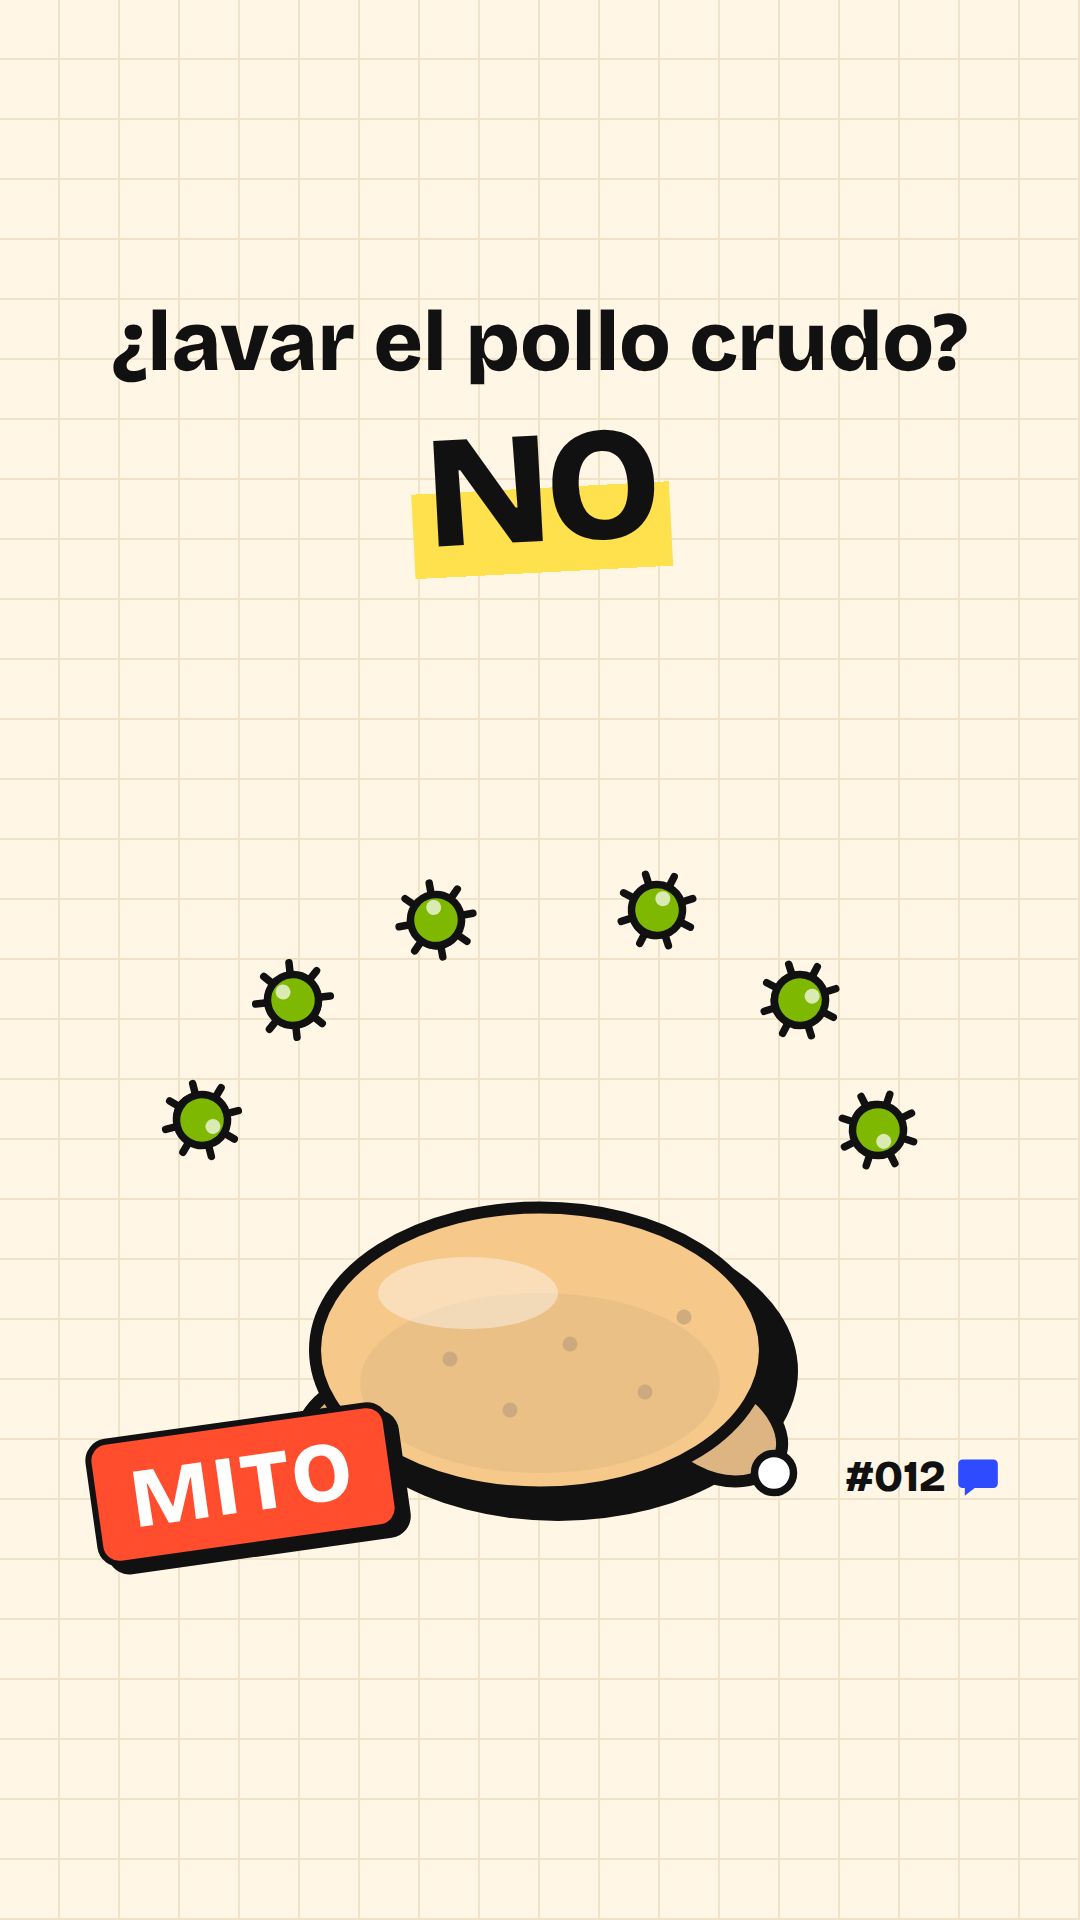
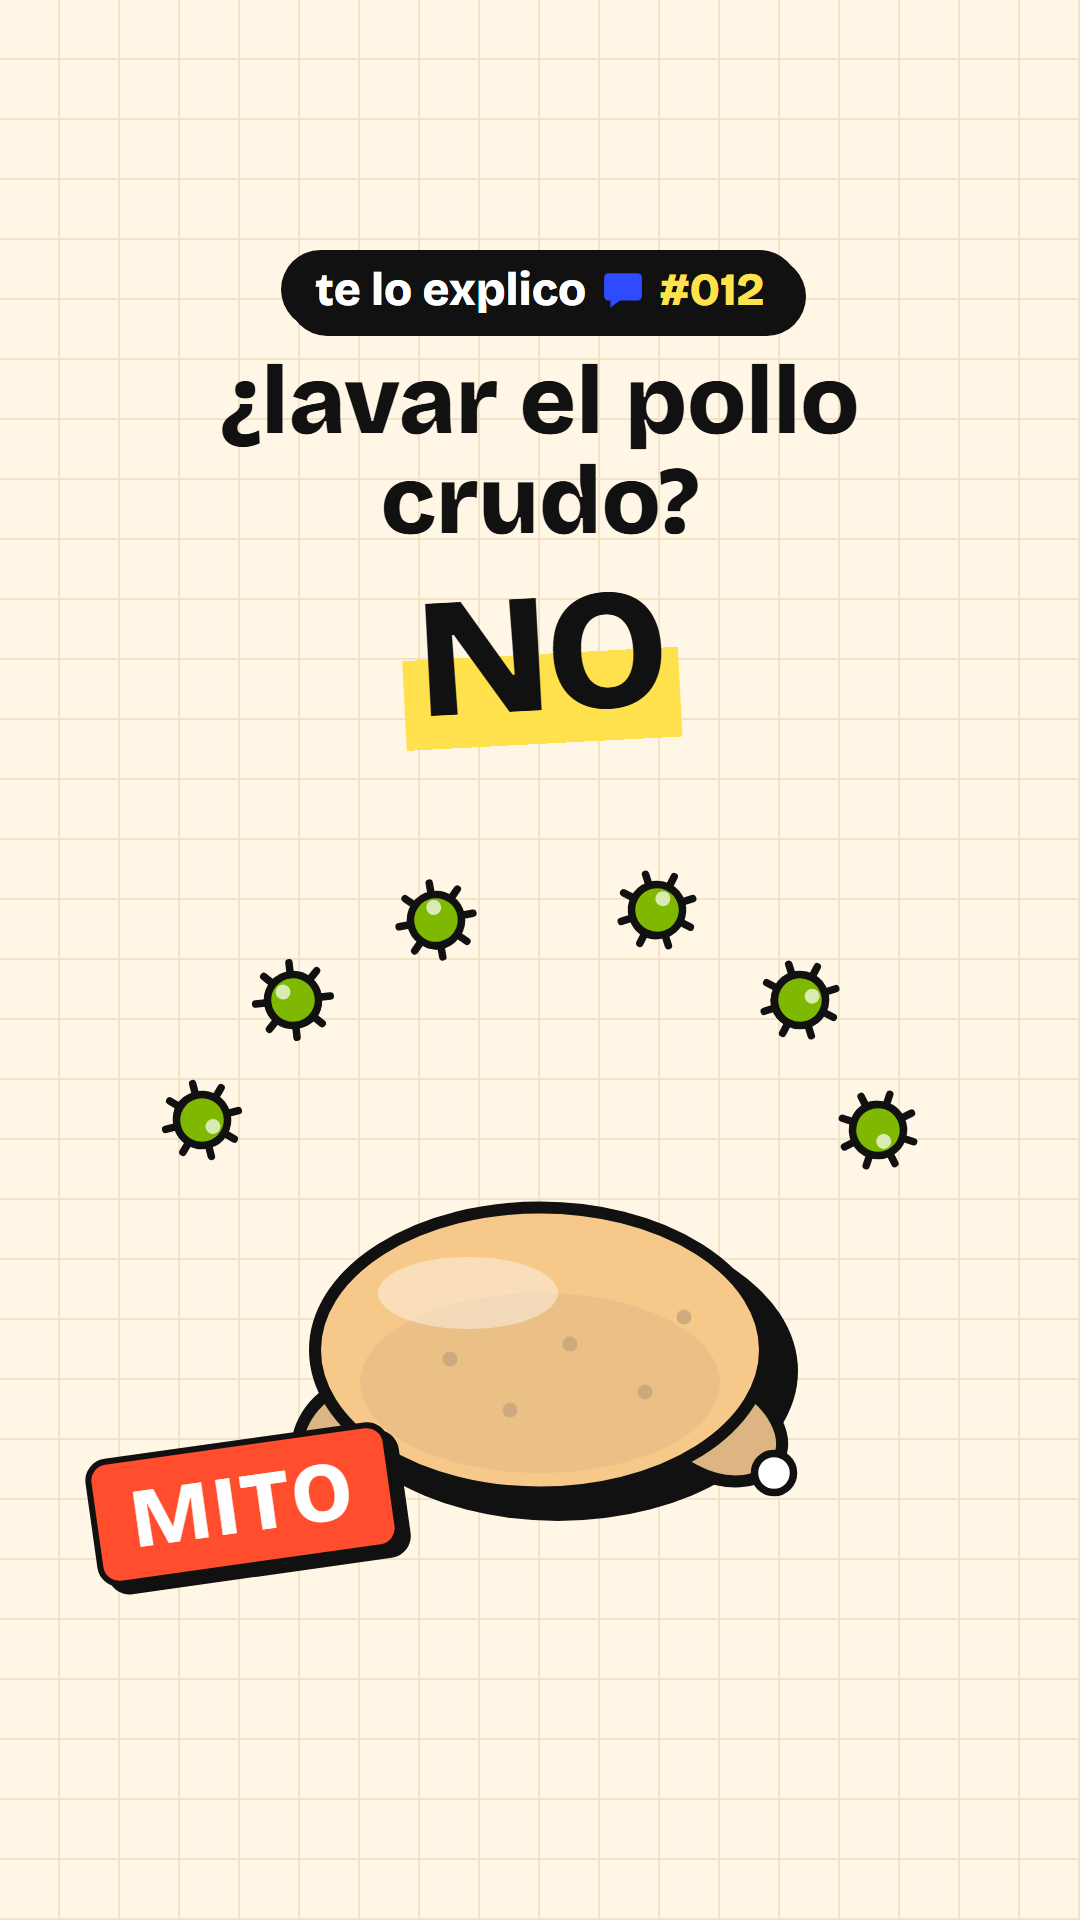
Portadas: plantilla pareja para la grilla (franja con número, textos que se ajustan) e Instagram usa la portada diseñada (cover_url)

Changed region(s): [[0.0917, 0.125, 0.9167, 0.4062], [0.0611, 0.7188, 0.3972, 0.8438], [0.7639, 0.75, 0.9472, 0.7812]]

diff --git a/motor/src/kit/Portada.tsx b/motor/src/kit/Portada.tsx
@@ -5,22 +5,39 @@ import { Burbuja, Fondo } from "./piezas";
 
 // Portada del reel para la grilla. Instagram la muestra recortada a 3:4 (franja central de 1080×1440,
 // de y=240 a y=1680): todo lo importante va ahí, en pocas palabras y grande.
+// Desde el 26/10 la grilla tiene que verse pareja: la franja de arriba es igual en todas (marca + número de la serie)
+// y los textos se achican solos según el largo, así ninguna portada pesa más que otra ni se corta en el borde.
 export type PortadaProps = {
   arriba: string;       // la pregunta / el mito, chico
   grande: string;       // la respuesta, enorme y resaltada (2–3 palabras)
-  sello?: string;       // "MITO", "POSTA", etc.
+  sello?: string;       // "MITO", "DATO", etc.
   colorSello?: string;
   numero?: number;      // número de dato, ayuda a ver la serie en la grilla
   children?: React.ReactNode; // dibujo (svg 1080×1920)
 };
 
+const tamArriba = (t: string) => (t.length <= 26 ? 96 : t.length <= 44 ? 84 : t.length <= 64 ? 74 : 64);
+const tamGrande = (t: string) => (t.length <= 3 ? 170 : t.length <= 6 ? 160 : t.length <= 10 ? 140 : t.length <= 14 ? 124 : 104);
+
 export const Portada: React.FC<PortadaProps> = ({ arriba, grande, sello, colorSello = C.rojo, numero, children }) => (
   <AbsoluteFill style={{ backgroundColor: C.papel }}>
     <Fondo />
     {children}
-    <div style={{ position: "absolute", top: 300, left: 60, right: 60, textAlign: "center", fontFamily: display, color: C.tinta }}>
-      <div style={{ fontWeight: 800, fontSize: 84, lineHeight: 1.02, marginBottom: 26 }}>{arriba}</div>
-      <div style={{ fontWeight: 800, fontSize: 160, lineHeight: 0.95, letterSpacing: -6, rotate: "-3deg", whiteSpace: "nowrap" }}>
+    {/* franja fija: igual en todas las portadas, es lo que hace que la grilla se lea como una serie */}
+    <div style={{ position: "absolute", top: 250, left: 0, right: 0, display: "flex", justifyContent: "center" }}>
+      <div
+        style={{
+          display: "flex", alignItems: "center", gap: 16, background: C.tinta, color: C.blanco, fontFamily: display,
+          fontWeight: 800, fontSize: 46, padding: "12px 34px", borderRadius: 999, boxShadow: sombra(7),
+        }}
+      >
+        te lo explico <Burbuja tam={42} />
+        {numero !== undefined ? <span style={{ color: C.amarillo }}>#{String(numero).padStart(3, "0")}</span> : null}
+      </div>
+    </div>
+    <div style={{ position: "absolute", top: 352, left: 70, right: 70, textAlign: "center", fontFamily: display, color: C.tinta }}>
+      <div style={{ fontWeight: 800, fontSize: tamArriba(arriba), lineHeight: 1.04, marginBottom: 22 }}>{arriba}</div>
+      <div style={{ fontWeight: 800, fontSize: tamGrande(grande), lineHeight: 0.95, letterSpacing: -5, rotate: "-3deg", whiteSpace: "nowrap" }}>
         <span style={{ background: `linear-gradient(transparent 50%, ${C.amarillo} 50%, ${C.amarillo} 94%, transparent 94%)`, padding: "0 14px" }}>
           {grande}
         </span>
@@ -29,7 +46,7 @@ export const Portada: React.FC<PortadaProps> = ({ arriba, grande, sello, colorSe
     {sello ? (
       <div
         style={{
-          position: "absolute", top: 1420, left: 90, rotate: "-8deg", background: colorSello, color: C.blanco,
+          position: "absolute", top: 1440, left: 90, rotate: "-8deg", background: colorSello, color: C.blanco,
           fontFamily: display, fontWeight: 800, fontSize: 84, padding: "8px 34px", border: `6px solid ${C.tinta}`,
           borderRadius: 22, boxShadow: sombra(9), letterSpacing: 3,
         }}
@@ -37,13 +54,5 @@ export const Portada: React.FC<PortadaProps> = ({ arriba, grande, sello, colorSe
         {sello}
       </div>
     ) : null}
-    <div
-      style={{
-        position: "absolute", top: 1450, right: 80, display: "flex", alignItems: "center", gap: 10, fontFamily: display,
-        fontWeight: 800, fontSize: 44, color: C.tinta,
-      }}
-    >
-      {numero !== undefined ? `#${String(numero).padStart(3, "0")}` : null} <Burbuja tam={44} />
-    </div>
   </AbsoluteFill>
 );

diff --git a/herramientas/publicar.py b/herramientas/publicar.py
@@ -39,13 +39,13 @@ def pedir(metodo, url, datos=None, cabeceras=None, cuerpo=None):
         sys.exit(f"Error de la API ({e.code}): {detalle.get('message')} [{detalle.get('error_user_msg', '')}]")
 
 
-def link_temporal(slug):
-    """Link firmado (vence en minutos) al <slug>.mp4 del Release "videos" del repo privado. None si no se puede."""
+def link_temporal(slug, archivo=None):
+    """Link firmado (vence en minutos) a <slug>.mp4 (o al archivo pedido) del Release "videos" del repo privado. None si no se puede."""
     try:
         tok = os.environ.get('GH_TOKEN') or subprocess.run(['gh', 'auth', 'token'], capture_output=True, text=True).stdout.strip()
         gh = {'Authorization': f'Bearer {tok}', 'Accept': 'application/vnd.github+json'}
         rel = json.load(urllib.request.urlopen(urllib.request.Request(f'https://api.github.com/repos/{REPO}/releases/tags/videos', headers=gh), timeout=60))
-        asset = next((a for a in rel['assets'] if a['name'] == f'{slug}.mp4'), None)
+        asset = next((a for a in rel['assets'] if a['name'] == (archivo or f'{slug}.mp4')), None)
         if not asset:
             return None
 
@@ -92,8 +92,10 @@ def main():
         # preferido: que Meta baje el video de un link firmado del Release privado (vence en minutos).
         # La subida directa (rupload) devuelve ProcessingFailedError "no reintentable" muy seguido (probado el 25/10).
         url = link_temporal(slug)
+        # portada diseñada (kit/Portada.tsx) en vez de un cuadro del video: la grilla queda pareja (26/10)
+        tapa = link_temporal(slug, f'{slug}.portada.png') if url else None
         if url:
-            cont = pedir('POST', f'{API}/{ig}/media', {**{k: v for k, v in datos.items() if k != 'upload_type'}, 'video_url': url})
+            cont = pedir('POST', f'{API}/{ig}/media', {**{k: v for k, v in datos.items() if k != 'upload_type'}, 'video_url': url, **({'cover_url': tapa} if tapa else {})})
             print(f'intento {intento}: contenedor {cont["id"]} (Meta baja el video del Release)')
             r = {'success': True}
         else:

diff --git a/herramientas/sincronizar.py b/herramientas/sincronizar.py
@@ -35,6 +35,12 @@ def subir_videos():
         video = os.path.join(RAIZ, 'videos', v['slug'], f"{v['slug']}.mp4")
         if v['estado'] in ('listo', 'apartado') and f"{v['slug']}.mp4" not in en_release and os.path.exists(video):  # apartado: para poder revisarlo
             subir.append((video, f"{v['slug']}.mp4"))
+        portada = os.path.join(RAIZ, 'videos', v['slug'], 'portada.png')
+        if v['estado'] == 'listo' and os.path.exists(portada) and en_release.get(f"{v['slug']}.portada.png") != str(os.path.getsize(portada)):
+            # Instagram la toma como portada (cover_url) con un link firmado, igual que el video
+            copia_p = os.path.join(tempfile.gettempdir(), f"{v['slug']}.portada.png")
+            shutil.copy(portada, copia_p)
+            subir.append((copia_p, f"{v['slug']}.portada.png"))
         # la voz de un video a medias: así el próximo turno (en otra máquina) sigue sin gastar otro pedido de Gemini
         voz = os.path.join(RAIZ, 'motor', 'public', v['slug'], 'voz.wav')
         if v['estado'] in ('produccion', 'apartado') and os.path.exists(voz) and en_release.get(f"{v['slug']}.voz.wav") != str(os.path.getsize(voz)):
